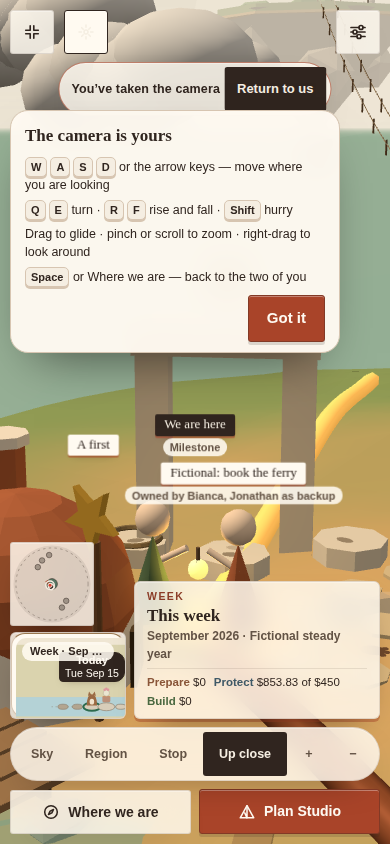
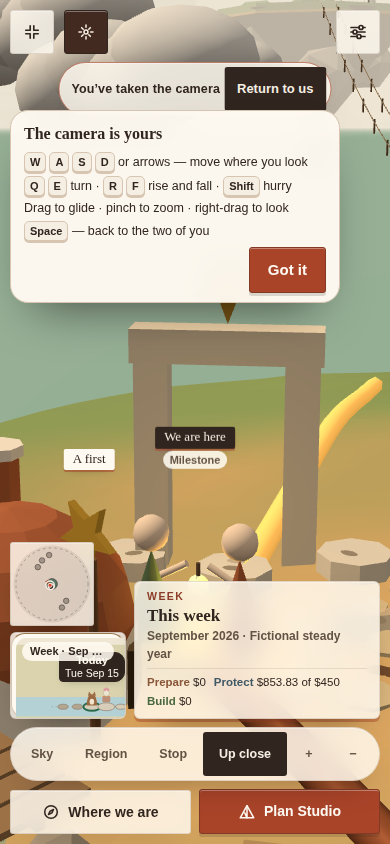
Pressed beats hover on the Free roam control (D-286)
The reduced-motion captures caught it: :hover:not(:disabled) outranks
[aria-pressed="true"], so resting the pointer on the control made a free camera
look latched. The pressed state now wins, with a hover shade of its own, and
the reduced-motion evidence was retaken.

diff --git a/src/path/our-path-world.css b/src/path/our-path-world.css
@@ -426,7 +426,9 @@ html.path-world-settled [data-path-world-behind] { visibility: hidden !important
 .path-hud__roamer { height: 44px; min-height: 44px; padding: 0 15px 0 12px; display: inline-flex; align-items: center; gap: 8px; border-radius: 999px; border: 1px solid var(--hud-edge); background: var(--hud-glass); box-shadow: var(--hud-shadow); -webkit-backdrop-filter: blur(12px) saturate(1.25); backdrop-filter: blur(12px) saturate(1.25); color: var(--ink); font-weight: 700; font-size: 14px; cursor: pointer; }
 .path-hud__roamer svg { width: 18px; height: 18px; flex: none; }
 .path-hud__roamer:hover:not(:disabled) { background: var(--card); }
-.path-hud__roamer[aria-pressed="true"] { background: var(--ink); color: var(--paper); border-color: var(--ink); }
+/* Pressed beats hover: the pointer resting on the control must never make a free camera look latched. */
+.path-hud .path-hud__roamer[aria-pressed="true"] { background: var(--ink); color: var(--paper); border-color: var(--ink); }
+.path-hud .path-hud__roamer[aria-pressed="true"]:hover:not(:disabled) { background: color-mix(in srgb, var(--ink) 84%, var(--theme-accent, var(--copper))); }
 .path-hud__roamer:disabled { opacity: 0.45; cursor: default; }
 .path-hud__roamer:focus-visible { outline: 3px solid var(--theme-accent, var(--copper)); outline-offset: 2px; }
 

diff --git a/docs/worksessions/2026-09-19-journey-free-roam.md b/docs/worksessions/2026-09-19-journey-free-roam.md
@@ -121,6 +121,8 @@ What the captures found and fixed, in order:
 - The corner map carried its old `grid-area: mini` into the new column it shares with the radar and was pushed diagonally out of place. Fixed.
 - On phones the first-time hint sat across the state chip. Fixed: it drops below it.
 - The radar was too faint to read at phone size. Fixed: drawn to the land rather than the whole ring, stronger land, sea and marks, a larger disc.
+- At 320 the first-time hint ran into the radar and the caption. Fixed: shorter lines and tighter type on phones.
+- The reduced-motion shots caught the pressed **Free roam** control looking unpressed: `:hover:not(:disabled)` outranks `[aria-pressed="true"]`, so resting the pointer on it made a free camera look latched. Fixed: pressed beats hover, with its own hover shade.
 
 Environment notes, honestly:
 
